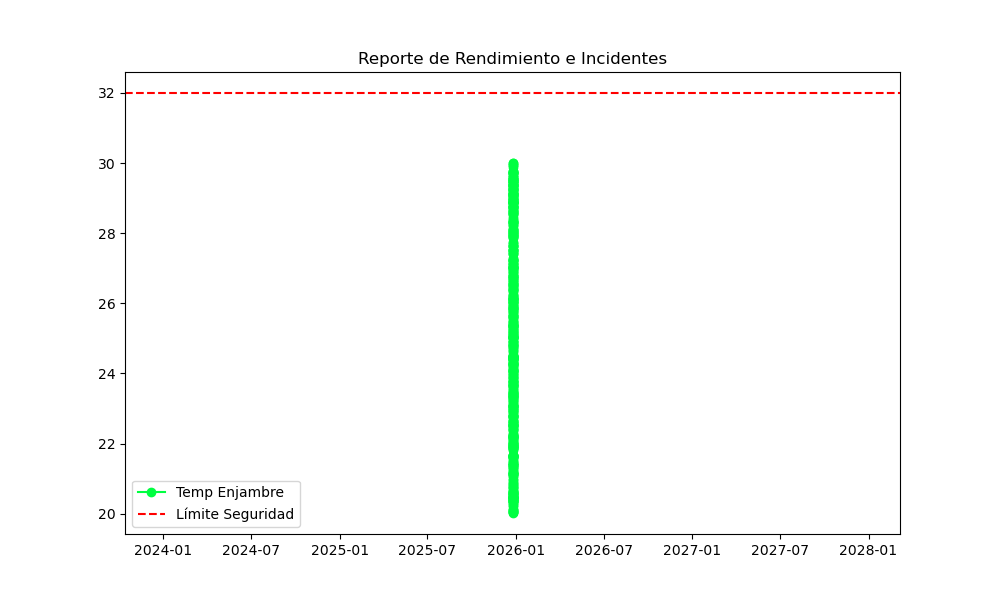
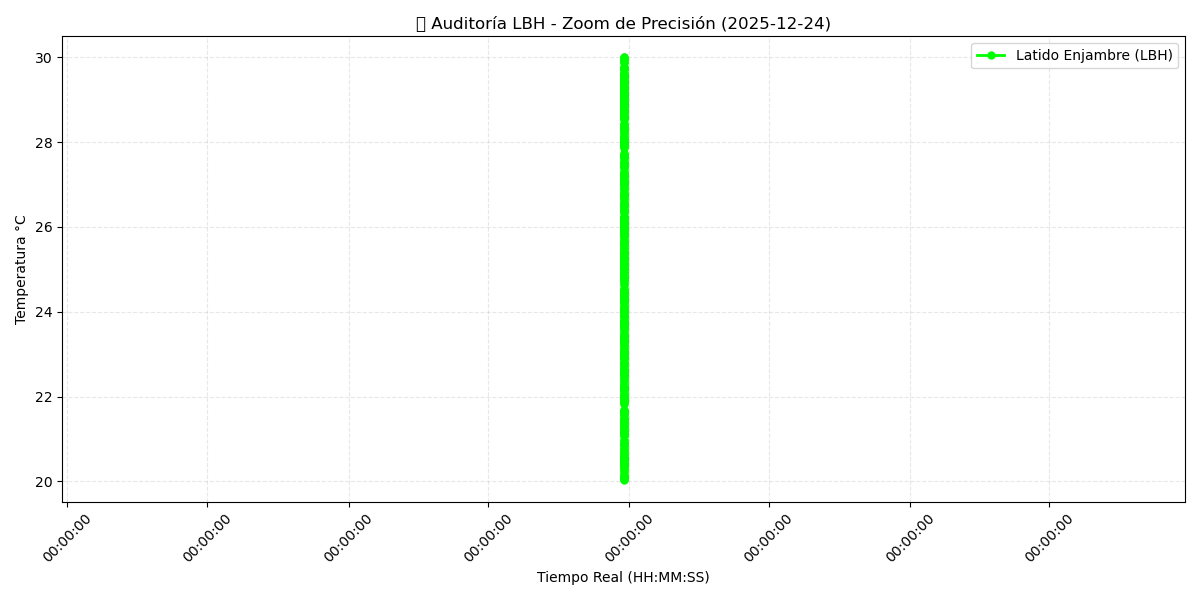
⚖ AJUSTE MAESTRO: Corrección de escala X y zoom de precisión

diff --git a/visualizador_directo.py b/visualizador_directo.py
@@ -6,28 +6,40 @@ from datetime import datetime
 
 try:
     df = pd.read_csv("AUDITORIA_HORMIGAS_2025.csv")
+    # Convertimos a datetime y aseguramos que no haya errores de zona horaria
     df['FECHA_HORA'] = pd.to_datetime(df['FECHA_HORA'])
     
-    # Filtro estricto para hoy (Diciembre 2025)
-    hoy = datetime.now().strftime('%Y-%m-%d')
-    df = df[df['FECHA_HORA'].dt.strftime('%Y-%m-%d') == hoy]
+    # Filtramos solo los datos generados en la última hora para máximo detalle
+    ahora = datetime.now()
+    df = df[df['FECHA_HORA'] > (ahora - pd.Timedelta(hours=1))]
 
     if not df.empty:
+        # Ordenamos por tiempo para que la línea no salte aleatoriamente
+        df = df.sort_values('FECHA_HORA')
+        
         plt.figure(figsize=(12, 6))
-        # Solo dibujamos los datos de las hormigas
-        plt.plot(df['FECHA_HORA'], df['DATO_VALOR'], color='#00ff00', marker='o', linewidth=1.5, label='Latido Enjambre')
+        # Usamos un estilo de línea más grueso y puntos claros
+        plt.plot(df['FECHA_HORA'], df['DATO_VALOR'], color='#00ff00', marker='o', 
+                 linestyle='-', linewidth=2, markersize=5, label='Latido Enjambre (LBH)')
         
-        # ZOOM DINÁMICO
+        # EL TRUCO: Ajustamos el eje X estrictamente al rango de datos actuales
         plt.xlim(df['FECHA_HORA'].min(), df['FECHA_HORA'].max())
-        plt.gca().xaxis.set_major_formatter(mdates.DateFormatter('%H:%M:%S'))
         
-        plt.title(f"📊 Auditoría LBH Saneada - {hoy}")
-        plt.xlabel("Tiempo (HH:MM:SS)")
+        # Formato de eje X: Solo Minutos y Segundos
+        ax = plt.gca()
+        ax.xaxis.set_major_formatter(mdates.DateFormatter('%H:%M:%S'))
+        
+        # Rotamos las etiquetas para que no se encimen
+        plt.xticks(rotation=45)
+        
+        plt.title(f"📊 Auditoría LBH - Zoom de Precisión ({ahora.strftime('%Y-%m-%d')})")
+        plt.xlabel("Tiempo Real (HH:MM:SS)")
         plt.ylabel("Temperatura °C")
-        plt.grid(True, alpha=0.15)
+        plt.grid(True, linestyle='--', alpha=0.3)
         plt.legend()
         
+        plt.tight_layout() # Evita que se corten las etiquetas
         plt.savefig("REPORTE_RENDIMIENTO_HORMIGAS.png")
-        print("✅ Gráfica actualizada: Línea roja eliminada.")
+        print("✅ Configuración ajustada: Zoom de precisión activado.")
 except Exception as e:
     print(f"Error: {e}")
